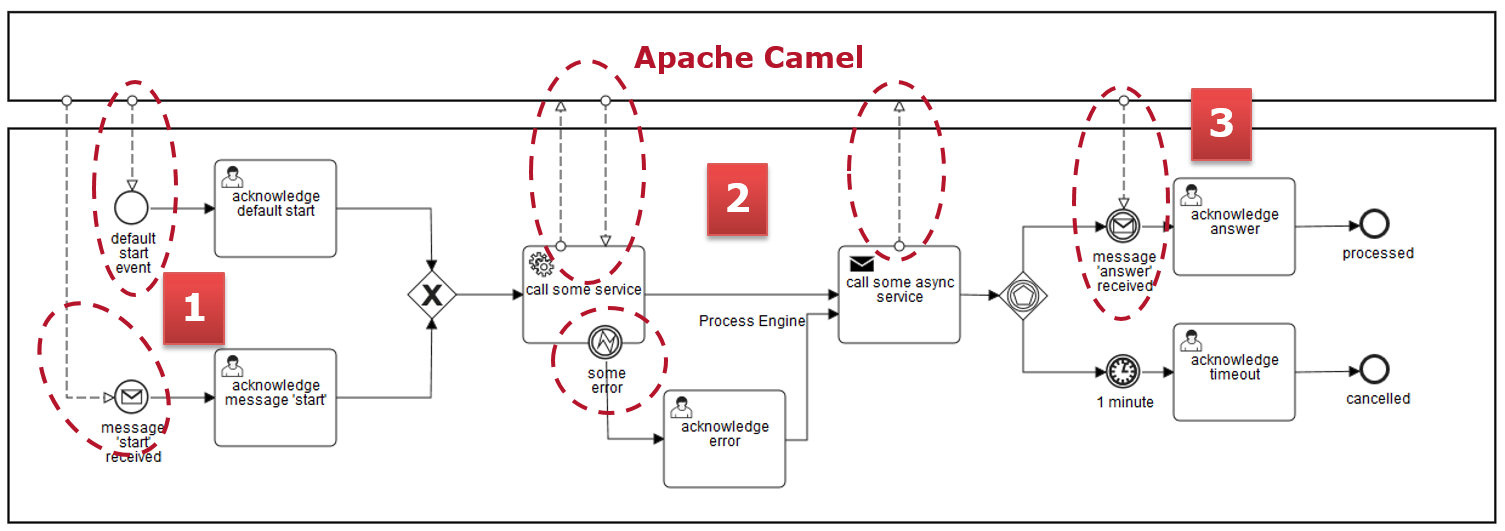
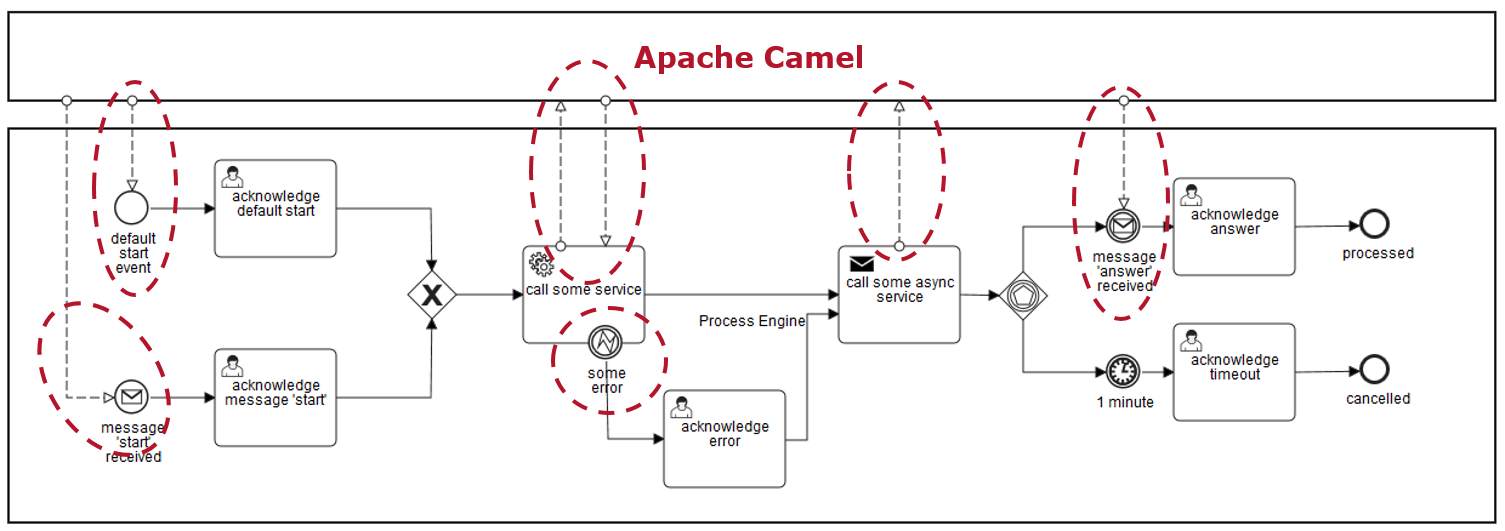
improved readme

Changed region(s): [[0.7807, 0.1507, 0.8432, 0.3315], [0.4684, 0.3013, 0.5309, 0.452], [0.0937, 0.5122, 0.1561, 0.6629]]

diff --git a/README.md b/README.md
@@ -16,7 +16,7 @@ See [example project 'camel use cases'](https://github.com/camunda/camunda-bpm-e
 
 ## camunda BPM --> Apache Camel 
 
-### Calling a Camel Endpoint (Service) (2)
+### Calling a Camel Endpoint (Service)
 
 Use the following expression in a ServiceTask to send all the process instance variables as a map to Camel endpoint:
 
@@ -37,7 +37,7 @@ The property `CamundaBpmProcessInstanceId` will be available to any downstream p
 ## Apache Camel --> camunda BPM
 The following use cases are supported by the camunda BPM Camel component (see [Camel Components](http://camel.apache.org/components.html)).
 
-### `camunda-bpm://start` Start a process instance (1)
+### `camunda-bpm://start` Start a process instance
 
 A direct consumer to start process instances. 
 
@@ -62,7 +62,7 @@ Starts a process instance of the process definition `startProcessFromRoute` with
 
 
 
-### `camunda-bpm://message` Send a message to the process engine (1 & 3)
+### `camunda-bpm://message` Send a message to the process engine
 
 A direct consumer to send a message to the process engine. This can either:
 * trigger the start of a new process instance, see [Start Message Event](http://docs.camunda.org/latest/api-references/bpmn20/#events-message-events)
